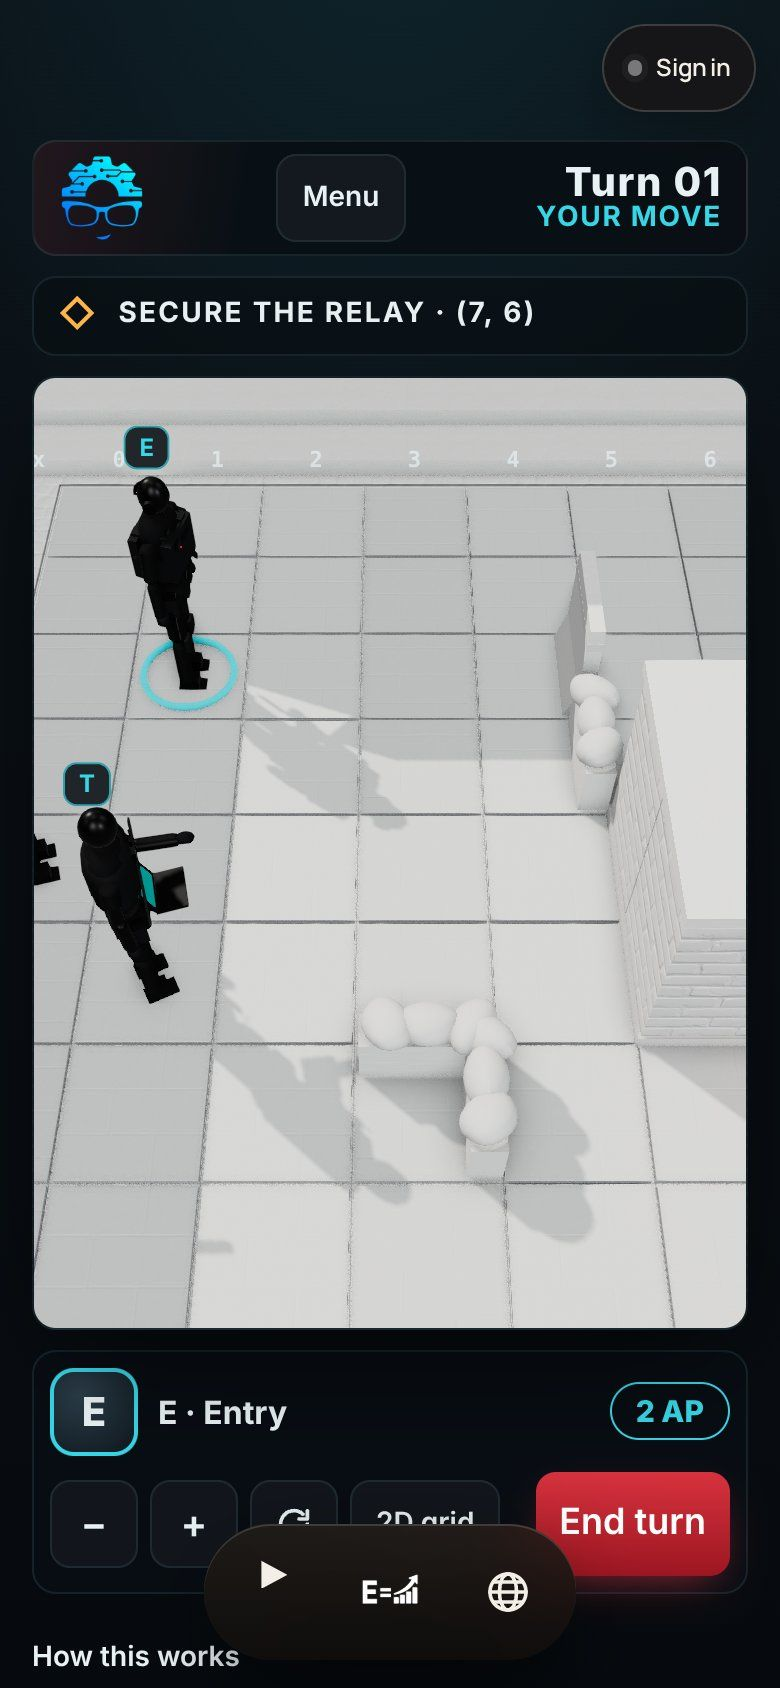
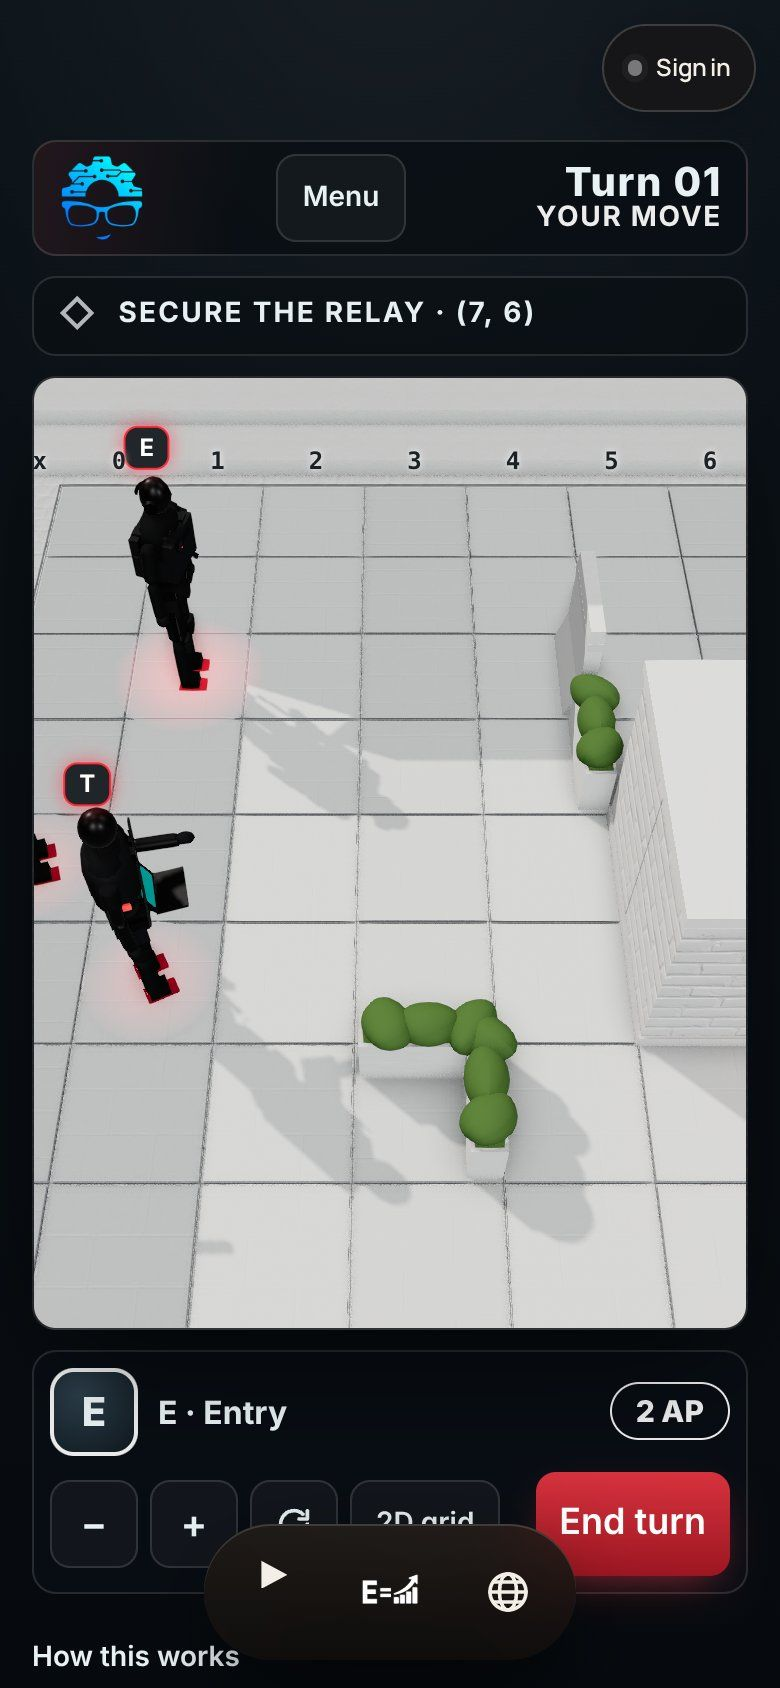
PRIM3 tactics: grayscale game, team glows, nature in colour
Owner refinement (2026-11-02): black/white/grey game; teams told apart only
by their glow (accent tabs on the kit + ground glow, brighter when
selected; squad red, opposition blue); trees, shrubs and grass keep natural
colour while everything inorganic is textured white; coordinates on all
four edges; page chrome, 2D grid and menu neutral grey. e2e 146/146.

Claude-Session: https://claude.ai/code/session_01B5PvZPhk5vVauTQexq1ooq

diff --git a/prim3-tactics-preview.html b/prim3-tactics-preview.html
@@ -11,15 +11,15 @@
   <link rel="stylesheet" href="css/style.css?v=__STAMP__">
   <style>
     :root{
-      --p3-bg:#05080b;--p3-bg2:#0b1218;--p3-tile:#121b22;--p3-tile2:#0e161c;--p3-line:rgba(140,220,235,.10);--p3-ink:#e8f1f3;--p3-dim:rgba(232,241,243,.68);
-      --p3-cyan:#36d6e7;--p3-cyan-soft:rgba(54,214,231,.20);--p3-amber:#ffb547;--p3-amber-soft:rgba(255,181,71,.22);--p3-hostile:#ff5d6a;
+      --p3-bg:#05080b;--p3-bg2:#0b1218;--p3-tile:#121b22;--p3-tile2:#0e161c;--p3-line:rgba(255,255,255,.12);--p3-ink:#e8f1f3;--p3-dim:rgba(232,241,243,.68);
+      --p3-cyan:#ececec;--p3-cyan-soft:rgba(236,236,236,.18);--p3-amber:#b4b8bb;--p3-amber-soft:rgba(180,184,187,.22);--p3-hostile:#3d8bff;--p3-team:#ff2a3a;
       --p3-wall:#2a3640;--p3-cover:#9fb3bf;--p3-r:12px
     }
     :root[data-theme="dark"]{--p3-bg:#05080b;--p3-ink:#e8f1f3}
     *{box-sizing:border-box}
     html,body{margin:0}
     html,body{background-color:#05080b}
-    body{background:radial-gradient(120% 70% at 50% -10%,rgba(54,214,231,.10),transparent 60%),linear-gradient(180deg,var(--p3-bg2),var(--p3-bg));color:var(--p3-ink);font:400 16px/1.4 system-ui,-apple-system,"Segoe UI",sans-serif;min-height:100svh;padding-bottom:calc(96px + env(safe-area-inset-bottom))}
+    body{background:radial-gradient(120% 70% at 50% -10%,rgba(255,255,255,.06),transparent 60%),linear-gradient(180deg,var(--p3-bg2),var(--p3-bg));color:var(--p3-ink);font:400 16px/1.4 system-ui,-apple-system,"Segoe UI",sans-serif;min-height:100svh;padding-bottom:calc(96px + env(safe-area-inset-bottom))}
     .tac{max-width:1100px;margin:0 auto;padding:calc(64px + env(safe-area-inset-top)) 16px calc(130px + env(safe-area-inset-bottom));display:grid;gap:10px;grid-template-columns:minmax(0,1fr)}
     .tac-hud{position:relative;z-index:5;display:grid;grid-template-columns:minmax(0,1fr) auto;gap:6px 10px;align-items:center;padding:8px 10px;border:1px solid var(--p3-line);border-radius:var(--p3-r);background:rgba(8,14,19,.82);backdrop-filter:blur(10px);-webkit-backdrop-filter:blur(10px)}
     .hud-unit{font-weight:600;min-width:0;overflow:hidden;text-overflow:ellipsis;white-space:nowrap}
@@ -32,8 +32,8 @@
     .tbtn:disabled{opacity:.4}
     .tac-stage{position:relative;display:grid;gap:8px}
     .tac-viewport{position:relative;width:100%;max-width:620px;aspect-ratio:1;overflow:hidden;border-radius:var(--p3-r);border:1px solid var(--p3-line);
-      background:linear-gradient(160deg,rgba(54,214,231,.06),transparent 40%),repeating-linear-gradient(0deg,rgba(255,255,255,.015) 0 2px,transparent 2px 6px),var(--p3-bg);
-      box-shadow:0 20px 60px -20px rgba(0,0,0,.8),inset 0 0 0 1px rgba(54,214,231,.06);touch-action:none}
+      background:linear-gradient(160deg,rgba(236,236,236,.06),transparent 40%),repeating-linear-gradient(0deg,rgba(255,255,255,.015) 0 2px,transparent 2px 6px),var(--p3-bg);
+      box-shadow:0 20px 60px -20px rgba(0,0,0,.8),inset 0 0 0 1px rgba(236,236,236,.06);touch-action:none}
     .tac-board{display:grid;grid-template-columns:18px repeat(10,minmax(0,1fr));grid-template-rows:18px repeat(10,minmax(0,1fr));gap:2px;width:100%;height:100%;padding:4px;transform-origin:0 0}
     html:not(.reduce-motion) .tac-board{transition:transform .12s ease-out}
     .tb-corner{font:700 9px/18px ui-monospace,monospace;color:var(--p3-dim);text-align:center}
@@ -42,9 +42,9 @@
     .tb-cell{position:relative;min-width:0;padding:0;border:0;border-radius:5px;cursor:pointer;color:inherit;
       background:linear-gradient(145deg,var(--p3-tile),var(--p3-tile2));box-shadow:inset 0 0 0 1px var(--p3-line),0 1px 0 rgba(0,0,0,.35)}
     .tb-cell.is-wall{cursor:default;background:linear-gradient(160deg,#3a4955,var(--p3-wall) 55%,#1a232a);box-shadow:inset 0 2px 0 rgba(255,255,255,.12),0 4px 10px rgba(0,0,0,.55)}
-    .tb-cell.is-reach{background:linear-gradient(145deg,var(--p3-cyan-soft),transparent),linear-gradient(145deg,var(--p3-tile),var(--p3-tile2));box-shadow:inset 0 0 0 1px rgba(54,214,231,.45)}
+    .tb-cell.is-reach{background:linear-gradient(145deg,var(--p3-cyan-soft),transparent),linear-gradient(145deg,var(--p3-tile),var(--p3-tile2));box-shadow:inset 0 0 0 1px rgba(236,236,236,.45)}
     .tb-cell.is-path{background:linear-gradient(145deg,var(--p3-amber-soft),transparent),linear-gradient(145deg,var(--p3-tile),var(--p3-tile2))}
-    .tb-cell.is-dest{box-shadow:inset 0 0 0 2px var(--p3-amber),0 0 14px rgba(255,181,71,.45)}
+    .tb-cell.is-dest{box-shadow:inset 0 0 0 2px var(--p3-amber),0 0 14px rgba(180,184,187,.45)}
     .tb-cell.is-hint{box-shadow:inset 0 0 0 2px var(--p3-amber);background:linear-gradient(145deg,var(--p3-amber-soft),transparent),linear-gradient(145deg,var(--p3-tile),var(--p3-tile2))}
     .tb-cell.is-origin{box-shadow:inset 0 0 0 2px var(--p3-cyan)}
     .tb-cell.is-target{box-shadow:inset 0 0 0 2px var(--p3-amber)}
@@ -56,20 +56,20 @@
     .tb-cover--N{left:8%;right:8%;top:2px;height:4px}.tb-cover--S{left:8%;right:8%;bottom:2px;height:4px}
     .tb-cover--E{top:8%;bottom:8%;right:2px;width:4px}.tb-cover--W{top:8%;bottom:8%;left:2px;width:4px}
     .tb-cover--high.tb-cover--N,.tb-cover--high.tb-cover--S{height:6px}.tb-cover--high.tb-cover--E,.tb-cover--high.tb-cover--W{width:6px}
-    .tb-obj{position:absolute;inset:26%;border:2px solid var(--p3-amber);transform:rotate(45deg);border-radius:3px;box-shadow:0 0 12px rgba(255,181,71,.55)}
+    .tb-obj{position:absolute;inset:26%;border:2px solid var(--p3-amber);transform:rotate(45deg);border-radius:3px;box-shadow:0 0 12px rgba(180,184,187,.55)}
     .tb-unit{position:absolute;inset:8%;border-radius:50%;display:grid;place-items:center;align-content:center;gap:0;background:radial-gradient(circle at 35% 30%,#2b3d49,#0d151b);box-shadow:0 4px 10px rgba(0,0,0,.6),inset 0 0 0 2px var(--p3-cyan)}
     .tb-unit b{font:800 clamp(10px,3.4vw,16px)/1 system-ui,sans-serif}
     .tb-ap{font-size:7px;line-height:1;color:var(--p3-cyan);letter-spacing:.5px}
     .tb-unit--hostile{box-shadow:0 4px 10px rgba(0,0,0,.6),inset 0 0 0 2px var(--p3-hostile);color:var(--p3-hostile)}
     .tb-role-E b{color:#7fe3ee}.tb-role-R b{color:#b9e98a}.tb-role-T b{color:#ffcf7a}
-    .tb-unit.is-sel{box-shadow:0 0 0 2px var(--p3-amber),0 0 16px rgba(255,181,71,.5),inset 0 0 0 2px var(--p3-cyan)}
+    .tb-unit.is-sel{box-shadow:0 0 0 2px var(--p3-amber),0 0 16px rgba(180,184,187,.5),inset 0 0 0 2px var(--p3-cyan)}
     html:not(.reduce-motion) .tb-unit.is-sel{animation:sel 1.6s ease-in-out infinite}
-    @keyframes sel{50%{box-shadow:0 0 0 3px var(--p3-amber),0 0 22px rgba(255,181,71,.65),inset 0 0 0 2px var(--p3-cyan)}}
+    @keyframes sel{50%{box-shadow:0 0 0 3px var(--p3-amber),0 0 22px rgba(180,184,187,.65),inset 0 0 0 2px var(--p3-cyan)}}
     .tbtn--zoom{font-size:20px;padding:0}
     .tac-menu[hidden],.tac-sheet[hidden]{display:none}
-    .tac-menu{position:relative;z-index:4;width:100%;max-width:620px;padding:6px;border-radius:12px;border:1px solid rgba(54,214,231,.35);background:rgba(8,14,19,.95);box-shadow:0 18px 40px rgba(0,0,0,.6);display:grid;grid-template-columns:repeat(3,minmax(0,1fr));gap:4px}
+    .tac-menu{position:relative;z-index:4;width:100%;max-width:620px;padding:6px;border-radius:12px;border:1px solid rgba(236,236,236,.35);background:rgba(8,14,19,.95);box-shadow:0 18px 40px rgba(0,0,0,.6);display:grid;grid-template-columns:repeat(3,minmax(0,1fr));gap:4px}
     .tm-head{grid-column:1/-1;margin:2px 6px 2px;font:700 12px/1.2 inherit;letter-spacing:.06em;text-transform:uppercase;color:var(--p3-dim)}
-    .tm-btn{min-height:44px;display:flex;flex-direction:column;justify-content:center;align-items:flex-start;gap:2px;padding:4px 10px;border-radius:9px;border:0;background:rgba(54,214,231,.08);color:inherit;font:600 14px/1.1 inherit;text-align:left;cursor:pointer;min-width:0}
+    .tm-btn{min-height:44px;display:flex;flex-direction:column;justify-content:center;align-items:flex-start;gap:2px;padding:4px 10px;border-radius:9px;border:0;background:rgba(236,236,236,.08);color:inherit;font:600 14px/1.1 inherit;text-align:left;cursor:pointer;min-width:0}
     .tm-btn small{color:var(--p3-dim);font-weight:500;font-size:11px}
     .tm-btn--ghost{background:transparent;border:1px solid var(--p3-line)}
     .tac-sheet{border:1px solid var(--p3-line);border-radius:var(--p3-r);padding:12px;background:rgba(8,14,19,.88)}
@@ -84,7 +84,7 @@
     .ts-link{margin-top:8px;min-height:44px;padding:0;border:0;background:none;color:var(--p3-cyan);font:600 15px/1.2 inherit;text-decoration:underline;text-underline-offset:3px;cursor:pointer}
     .ts-form{display:grid;grid-template-columns:minmax(0,1fr) auto;gap:8px;align-items:end;margin-top:6px}
     .ts-form label{grid-column:1/-1;font-size:13px;color:var(--p3-dim)}
-    .ts-form input{min-height:48px;border-radius:10px;border:1px solid rgba(54,214,231,.45);background:transparent;color:inherit;padding:0 12px;font-size:max(18px,1rem);min-width:0}
+    .ts-form input{min-height:48px;border-radius:10px;border:1px solid rgba(236,236,236,.45);background:transparent;color:inherit;padding:0 12px;font-size:max(18px,1rem);min-width:0}
     .ts-why{margin:6px 0 0;padding-left:1.1rem;display:grid;gap:4px}
     .tac-about{color:var(--p3-dim);font-size:14px}
     .tac-about summary{min-height:44px;display:flex;align-items:center;cursor:pointer;color:var(--p3-ink);font-weight:600}
@@ -113,10 +113,10 @@
     .b3-canvas{display:block;width:100%;height:100%}
     .b3-labels{position:absolute;inset:0;pointer-events:none;overflow:hidden}
     .b3-label{position:absolute;left:0;top:0;white-space:nowrap;font:700 12px/1 system-ui,sans-serif;padding:4px 7px;border-radius:7px;translate:-50% -100%;background:rgba(6,12,16,.86);border:1px solid var(--p3-line);color:var(--p3-ink)}
-    .b3-label--ally{color:var(--p3-cyan);border-color:rgba(54,214,231,.7);min-width:22px;text-align:center}
-    .b3-label--hostile{color:#ffd0d4;border-color:var(--p3-hostile);background:rgba(70,10,16,.86)}
-    .b3-label--origin{color:var(--p3-cyan);border-color:rgba(54,214,231,.7);translate:-50% 45%}
-    .b3-label--target,.b3-label--obj{color:var(--p3-amber);border-color:rgba(255,181,71,.7)}
+    .b3-label--ally{color:#fff;border-color:var(--p3-team);box-shadow:0 0 10px rgba(255,42,58,.55);min-width:22px;text-align:center}
+    .b3-label--hostile{color:#fff;border-color:var(--p3-hostile);background:rgba(6,12,16,.86);box-shadow:0 0 10px rgba(61,139,255,.55)}
+    .b3-label--origin{color:#fff;border-color:rgba(255,255,255,.7);translate:-50% 45%}
+    .b3-label--target,.b3-label--obj{color:#fff;border-color:rgba(255,255,255,.45)}
     .b3-label--target{translate:-50% 45%}
     .b3-label--cover{font-weight:600;color:var(--p3-dim)}
     .b3-label--step{translate:-50% -150%;background:transparent;border:0;color:var(--p3-ink);font-size:11px}
@@ -144,15 +144,15 @@
     .pm-head img{width:56px;height:56px;object-fit:contain;flex:none}
     .pm-head h2{margin:0;font:800 28px/1.05 system-ui,sans-serif;letter-spacing:.01em}
     .pm-head p{margin:2px 0 0;color:var(--p3-dim,#9fb3c0);font-size:14px}
-    .pm-stage{position:relative;aspect-ratio:4/5;max-height:62vh;width:100%;border-radius:var(--p3-r);overflow:hidden;border:1px solid var(--p3-line);background:radial-gradient(120% 90% at 50% 20%,#24364a 0,#121c26 55%,#0a1117 100%)}
+    .pm-stage{position:relative;aspect-ratio:4/5;max-height:62vh;width:100%;border-radius:var(--p3-r);overflow:hidden;border:1px solid var(--p3-line);background:radial-gradient(120% 90% at 50% 20%,#f4f5f6 0,#e2e4e6 60%,#cfd3d6 100%)}
     .pm-stage canvas{position:absolute;inset:0;width:100%;height:100%;display:block}
     .pm-stage .b3-labels{display:none}
     .pm-stage.no-3d::after{content:"";position:absolute;inset:0;background:url(assets/img/prim3-logo.png) center/40% no-repeat;opacity:.5}
     .pm-list{display:grid;gap:8px;grid-template-columns:minmax(0,1fr)}
     .pm-opt{display:flex;flex-direction:column;align-items:flex-start;gap:3px;min-height:56px;padding:10px 14px;border-radius:14px;border:1px solid var(--p3-line);background:rgba(255,255,255,.04);color:inherit;text-align:left;cursor:pointer;font:700 17px/1.2 system-ui,sans-serif}
     .pm-opt small{font:500 13px/1.3 system-ui,sans-serif;color:var(--p3-dim,#9fb3c0)}
-    .pm-opt[aria-pressed="true"]{border-color:var(--p3-cyan);background:linear-gradient(90deg,rgba(54,214,231,.16),rgba(54,214,231,.04));box-shadow:inset 3px 0 0 var(--p3-cyan)}
-    .pm-go{min-height:56px;border:0;border-radius:14px;font:800 19px/1 system-ui,sans-serif;color:#061015;background:linear-gradient(180deg,#5ff2d6,#2fbfc9);box-shadow:0 10px 24px -10px rgba(95,242,214,.7);cursor:pointer}
+    .pm-opt[aria-pressed="true"]{border-color:var(--p3-cyan);background:linear-gradient(90deg,rgba(236,236,236,.16),rgba(236,236,236,.04));box-shadow:inset 3px 0 0 var(--p3-cyan)}
+    .pm-go{min-height:56px;border:0;border-radius:14px;font:800 19px/1 system-ui,sans-serif;color:#061015;background:linear-gradient(180deg,#ffffff,#d9dcde);box-shadow:0 10px 24px -10px rgba(255,255,255,.45);cursor:pointer}
     .pm-note{margin:0;font-size:12px;color:var(--p3-dim,#9fb3c0)}
     .tbtn--menu{font-size:14px}
     @media (min-width:900px){

diff --git a/docs/productization/20261102-claude/PRIM3-MOBILE-PASS.md b/docs/productization/20261102-claude/PRIM3-MOBILE-PASS.md
@@ -170,3 +170,13 @@ The handoff's ordered steps, and what happened to each:
 | Operatives built from the loadout photographs | implemented | Black faceless mannequins with all gear in black, per Prim3 `phenotypes/operators/LOADOUTS.md`. **E:** carrier, knee pads, over-ear headset, body camera with a red record light, belt pouches, right-hip holster, entry tool at the thigh, compact carbine slung left. **R:** light chest rig with binoculars in the sternum pouch, recorder, one-ear headset, belt radio, holster, scoped rifle slung left. **T:** short sleeves with mannequin forearms, zip soft vest, centre recorder, radio on the left strap, deck sling, open cyberdeck held at the waist, belt pouches, sidearm. **Known hostiles:** SOI-01 officers. Arms hang relaxed and swing when walking; long guns come off the sling only to shoot, and T fires the sidearm. No marks. **Still procedural:** these are not authored GLBs; the model slot is unchanged. |
 | T reference | done | Owner's FO-T Standard mannequin and loadout added to the Prim3 loadout index (branch `design/operator-loadouts-20261102`), so E, R and T are complete. |
 | Pre-mission loadout editor ("like Call of Duty … upgrade the loadouts … mission points") | designed only | Next: see the proposal in HANDOFF / the next turn. |
+
+### Refinement (owner, 2026-11-02): grayscale game, team glows, nature in colour
+
+> "Just a black and white game with grays … you can see the coordinates on the gray lines … you can only tell the teams between the color of the glow … I want the environment to be white except for … trees and nature … pavement should still have the texture of pavement. It's just white with that texture."
+
+- **Grayscale marks.** Every game mark is a grey or black tint: reach, path, destination, hint frames, the origin and target rings, and the step tiles in the math trace. The relay is a black beacon. The page chrome, the 2D grid fallback and the menu are neutral greys.
+- **Teams by glow only.** Each operative has small glowing accent tabs on its kit (sides, shoulder, boot heels, like the red tabs on T's loadout) and a soft ground glow in its team colour. The squad is red (`#ff2a3a`); the opposition is blue (`#3d8bff`). Selecting a unit brightens its glow. The old hostile ring and the selection ring are gone. Unit labels carry the same glow. Both colours are single constants (`TEAM` in `board3d.mjs`), so they are easy to change.
+- **Nature keeps its colour:** tree foliage and bark, shrubs, planter grass beds, the hedge run. Everything inorganic stays white, keeping its scanned texture.
+- **Coordinates** run on all four board edges in dark grey over grey grid lines.
+- e2e 146/146.
